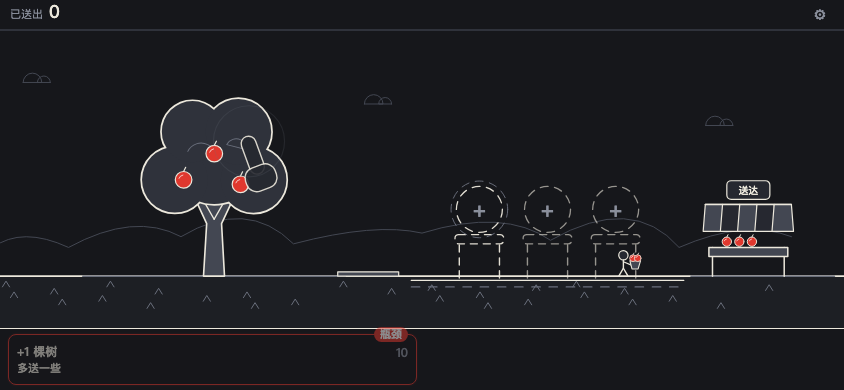
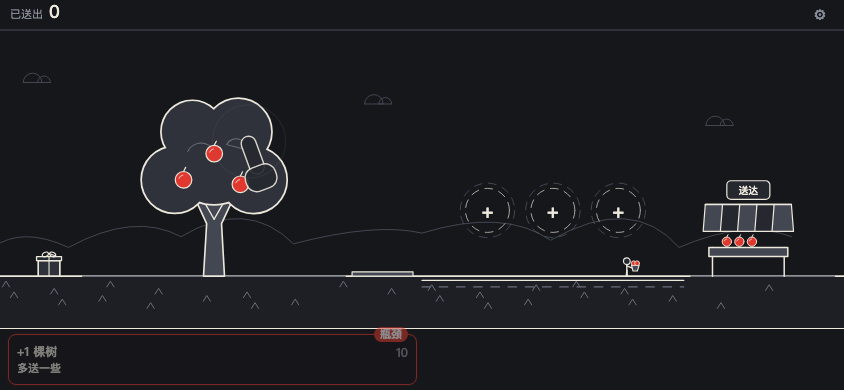
v4 integrator r5: setProgress/gateCan, 结局页 844×390 重排, 果城截图, smoke 更新

diff --git a/src/main.ts b/src/main.ts
@@ -120,6 +120,7 @@ function buildWorld(th: Throughput): WorldView {
     rtVehicles: Math.max(1, Math.round(rt.units[rt.tier])),
     rtBranch: rt.branch[rt.tier],
     gates: s.gates.map((g) => (g === 'red' ? 'string' : g)),
+    gateCan: s.gates.map((g) => g === null && s.gatesUnlocked.some((u) => !s.gates.includes(u))),
     gatesUnlocked: GATE_SLOTS,
     stock01: stockFill(s),
     produce: th.produce,
@@ -584,7 +585,7 @@ function renderAll(): void {
   if (!bp.hidden) fillBranch();
 
   orchard.setWorld(buildWorld(th));
-  (orchard as unknown as { setProgress?: (f: number) => void }).setProgress?.(progress(s)); // 礼物盒:进度越高越满
+  orchard.setProgress(progress(s)); // 礼物盒:进度越高越满
   const e = era(s);
   if (e !== lastEra) {
     lastEra = e;
@@ -616,13 +617,13 @@ function win(): void {
     },
     () => resetGame(),
   );
-  const card = document.querySelector('#ending .card');
+  const card = document.querySelector('#ending .card .r');
   if (!card) return;
   const box = document.createElement('div');
   if (!giftOpen(nowMs())) {
     box.id = 'sealed';
     box.className = 'sealed';
-    box.style.cssText = 'margin:14px 0;padding:10px;border:1px dashed #666;border-radius:8px;font-size:14px';
+    box.style.cssText = 'margin:8px 0;padding:6px 10px;border:1px dashed #666;border-radius:8px;font-size:13px';
     for (const line of SEALED) {
       const p = document.createElement('p');
       p.textContent = line;

diff --git a/src/ui/glue.css b/src/ui/glue.css
@@ -10,13 +10,16 @@
 #btnHelper.no { opacity: 0.6; }
 
 /* 结局卡:内容超高(横屏手机)时要能滚到顶,不能被 flex 居中裁掉 */
-body #ending { align-items: flex-start; padding: 16px; }
-body #ending .card { margin: auto; }
+body #ending { align-items: flex-start; padding: 16px 16px max(28px, calc(16px + env(safe-area-inset-bottom))); }
+body #ending .card { margin: auto; width: 100%; max-width: 760px; }
+body #ending .r { min-width: 0; }
 @media (max-height: 480px) {
   body #ending .apple { width: 36px; height: 36px; margin-bottom: 8px; }
   body #ending h2 { margin-bottom: 6px; }
   body #ending p { margin: 2px 0; line-height: 1.5; }
   body #ending .stats { margin: 8px 0; padding: 6px; }
+  body #ending .card { column-gap: 28px; grid-template-columns: 110px 1fr; }
+  body #ending #sealed p { margin: 1px 0; }
 }
 
 /* 设置里的小字 */
